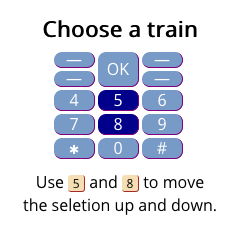
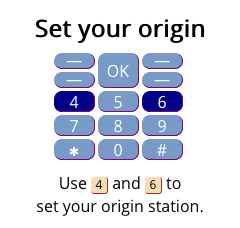
Cleanup the help screens.

diff --git a/webapp/es5/NextCaltrain.js b/webapp/es5/NextCaltrain.js
@@ -26,10 +26,10 @@ var POUND = 163;
 var ZERO = 48;
 
 var screens = 'hero grid trip about commands'.split(' ');
-var titles = { 'about': 'About Next Caltrain', 'commands': 'Keyboard commands' };
+var titles = { 'about': 'About Next Caltrain', 'commands': 'Keypad commands' };
 var email = 'next-caltrain@netpress.com';
 
-var hints = [['Choose a train', [5, 8], 'Use [5] and [8] to move<br/>the seletion up and down.'], ['Select origin', [4, 6], 'Use [4] and [6] to<br/>change origin station.'], ['Select destination', [7, 9], 'Use [7] and [9] to<br/>change destination station.'], ['Choose a schedule', ['0'], 'Use [0] to cycle through<br/>available schedules.'], ['Flip station direction', ['c'], 'Flip the selected stations<br/>with the green [call] button.'], ['Save default stops', ['l'], 'Select "Save Stations"<br/>with the [Left] softkey.'], ['Bookmark the app', ['r'], 'Select "Pin to Apps Menu"<br/>with the [Right] softkey.'], ['Thanks for using<br/> Next Caltrain', null, 'The cursor (arrow/pointer)<br/>is not used by this app,<br/>' + 'so move it out of the way<br/>to the right of the screen.<br/>' + `Please send feedback to<br/><a href="mailto:${email}">${email}</a><br/>`]];
+var hints = [['Set your origin', [4, 6], 'Use [4] and [6] to<br/>set your origin station.'], ['Set destination', [7, 9], 'Use [7] and [9] to<br/>set destination station.'], ['Select a train', [5, 8], 'Use [5] and [8] to move<br/>the seletion up and down.'], ['Change schedule', ['0'], 'Use [0] to cycle through<br/>available schedules.'], ['Flip direction', ['c'], 'Flip the selected stations<br/>with the green [call] button.'], ['Save stations', ['l'], 'Select "Save Stations"<br/>with the [Left] softkey.'], ['Bookmark app', ['r'], 'Select "Pin to Apps Menu"<br/>with the [Right] softkey.'], ['Thanks for using<br/> Next Caltrain', null, `Please send feedback to<br/>&nbsp;<a href="mailto:${email}">${email}</a>.<br/>` + 'Note: The cursor (arrow)<br/>is not used by this app,<br/>' + 'just move it to the right.<br/>']];
 
 var hintIndex = -1;
 

diff --git a/src/NextCaltrain.js b/src/NextCaltrain.js
@@ -20,28 +20,28 @@ const POUND = 163;
 const ZERO = 48;
 
 const screens = 'hero grid trip about commands'.split(' ');
-const titles = {'about':'About Next Caltrain', 'commands':'Keyboard commands'};
+const titles = {'about':'About Next Caltrain', 'commands':'Keypad commands'};
 const email = 'next-caltrain@netpress.com';
 
 const hints = [
-  ['Choose a train', [5,8],
+  ['Set your origin', [4,6],
+   'Use [4] and [6] to<br/>set your origin station.'],
+  ['Set destination', [7,9],
+   'Use [7] and [9] to<br/>set destination station.'],
+  ['Select a train', [5,8],
    'Use [5] and [8] to move<br/>the seletion up and down.'],
-  ['Select origin', [4,6],
-   'Use [4] and [6] to<br/>change origin station.'],
-  ['Select destination', [7,9],
-   'Use [7] and [9] to<br/>change destination station.'],
-  ['Choose a schedule', ['0'],
+  ['Change schedule', ['0'],
    'Use [0] to cycle through<br/>available schedules.'],
-  ['Flip station direction', ['c'],
+  ['Flip direction', ['c'],
    'Flip the selected stations<br/>with the green [call] button.'],
-  ['Save default stops', ['l'],
+  ['Save stations', ['l'],
    'Select "Save Stations"<br/>with the [Left] softkey.'],
-  ['Bookmark the app', ['r'],
+  ['Bookmark app', ['r'],
    'Select "Pin to Apps Menu"<br/>with the [Right] softkey.'],
   ['Thanks for using<br/> Next Caltrain', null,
-   'The cursor (arrow/pointer)<br/>is not used by this app,<br/>' +
-   'so move it out of the way<br/>to the right of the screen.<br/>' +
-   `Please send feedback to<br/><a href="mailto:${email}">${email}</a><br/>`]];
+   `Please send feedback to<br/>&nbsp;<a href="mailto:${email}">${email}</a>.<br/>` +
+   'Note: The cursor (arrow)<br/>is not used by this app,<br/>' +
+   'just move it to the right.<br/>']];
 
 let hintIndex = -1;
 

diff --git a/webapp/index.html b/webapp/index.html
@@ -76,14 +76,7 @@
             <div><span class="btn">5</span> &#9650;</div>
             <div>&#9660; <span class="btn">8</span></div>
           </div>
-        </div><select id="popup-menu" style="display: none;"
-          onblur="NextCaltrain.popupMenu('hide')"
-          onchange="NextCaltrain.popupMenu(this.value)">
-          <option value="about"> About </option>
-          <option value="commands"> Keypad commands </option>
-          <option value="prefs"> Save stations </option>
-          <option value="hide" selected></option>
-        </select>
+        </div>
         <div id="circle"></div>
         <div id="overview">
           <div>
@@ -95,9 +88,17 @@
             <div id="trip"></div><span id="trip-type"></span>
           </div>
         </div>
+        <select id="popup-menu" style="display: none;"
+          onblur="NextCaltrain.popupMenu('hide')"
+          onchange="NextCaltrain.popupMenu(this.value)">
+          <option value="about"> About Next Caltrain </option>
+          <option value="commands"> Keypad commands </option>
+          <option value="prefs"> Save stations </option>
+          <option value="hide" selected></option>
+        </select>
         <div id="softkey-labels">
-            <div>Menu</div>
-            <div>Main</div>
+           <div>Menu</div>
+           <div>Main</div>
         </div>
       </div>
     </div>

diff --git a/webapp/style.css b/webapp/style.css
@@ -102,7 +102,7 @@ body {
 
 #hint-above {
   font-weight: bold;
-  font-size: 22px;
+  font-size: 24px;
 }
 
 #circle {
@@ -140,7 +140,11 @@ body {
 }
 
 #popup-menu {
-  z-index: 2;
+  z-index: 9;
+  width: 100%;
+  position: absolute;
+  overflow: hidden;
+  bottom: 0;
 }
 
 .btn {
